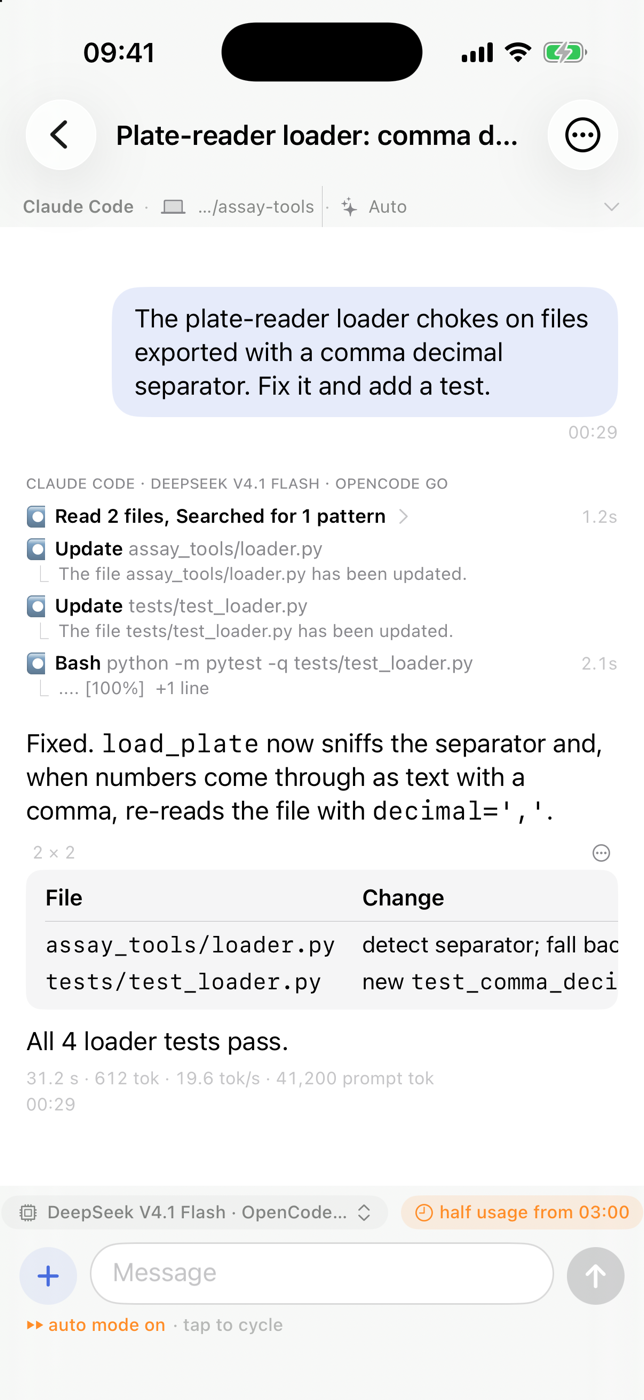
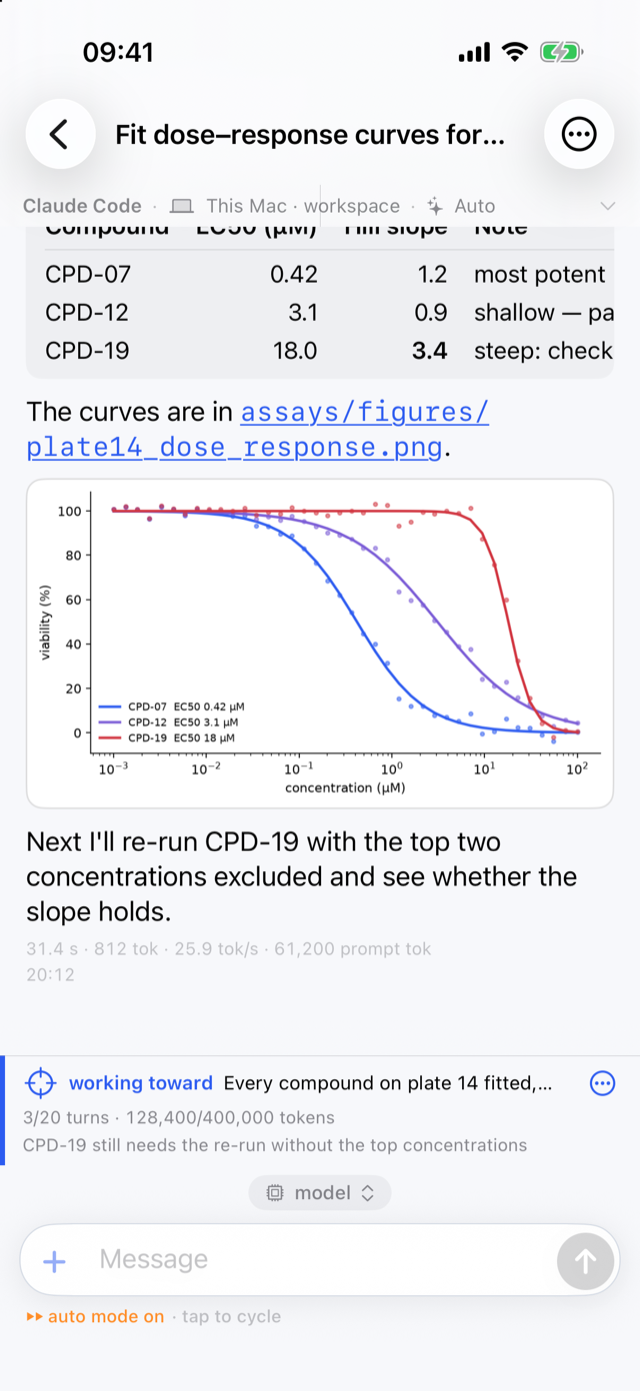
New screenshots and README; Markdown images show inline
- Screenshots retaken in the current look from a demo Orbit with made-up chats.
- README leads with chats that talk to each other, goals, Lock Screen approvals
  and the built-in guide.
- A Markdown image in an answer (`![plot](figures/x.png)`, relative to the chat's
  folder or a full path) now shows the picture instead of its alt text.

diff --git a/Orbit/Views/MessageBubble.swift b/Orbit/Views/MessageBubble.swift
@@ -209,7 +209,7 @@ struct MarkdownText: View {
             // only a finished answer is looked up — a live one changes 20 times a second
             guard let sid else { return }
             let names = blocks.flatMap(\.inlineTexts).flatMap { FileLinks.candidates(in: Self.attributed($0)) }
-            links.request(sid: sid, names: names)
+            links.request(sid: sid, names: names + blocks.compactMap(\.localImage))
         }
     }
 
@@ -254,6 +254,27 @@ struct MarkdownText: View {
             QuoteBlock(kind: kind, title: title.map { inline($0) }) {
                 MarkdownText(body)
             }
+        case .image(let alt, let src):
+            imageView(alt: alt, src: src)
+        }
+    }
+
+    /// A web picture loads as is; one on the Mac (`figures/plot.png`, relative to the
+    /// chat's folder, or a full path) once the Mac has said where it is -- the same
+    /// lookup that turns file names into links. Until then, or if it is not there, its name.
+    @ViewBuilder
+    private func imageView(alt: String, src: String) -> some View {
+        if src.hasPrefix("http://") || src.hasPrefix("https://"), let url = URL(string: src) {
+            AsyncImage(url: url) { img in
+                img.resizable().aspectRatio(contentMode: .fit)
+            } placeholder: { ProgressView().controlSize(.mini) }
+                .frame(maxWidth: .infinity, maxHeight: 240)
+                .clipShape(.rect(cornerRadius: 11))
+        } else if let sid, let f = links.info(sid: sid, name: src), f.exists, let url = f.url {
+            MessageImage(path: url)
+        } else {
+            Label(alt.isEmpty ? (src as NSString).lastPathComponent : alt, systemImage: "photo")
+                .font(.subheadline).foregroundStyle(.secondary)
         }
     }
 
@@ -308,6 +329,8 @@ struct MarkdownText: View {
         case list([ListItem])
         case quote(kind: String?, title: String?, body: String)
         case rule
+        /// `![alt](src)` on a line of its own: a picture, not its alt text
+        case image(alt: String, src: String)
 
         /// The inline Markdown pieces, for finding file names in them.
         var inlineTexts: [String] {
@@ -317,13 +340,21 @@ struct MarkdownText: View {
             case .list(let items): return items.map(\.text)
             case .quote(_, let title, let body):
                 return (title.map { [$0] } ?? []) + Block.parse(body).flatMap(\.inlineTexts)
-            case .code, .math, .rule: return []
+            case .code, .math, .rule, .image: return []
             }
+        }
+
+        /// A picture on the Mac this block shows, to look up like any file name.
+        var localImage: String? {
+            if case .image(_, let src) = self, !src.hasPrefix("http://"), !src.hasPrefix("https://"),
+               !src.hasPrefix("data:") { return src }
+            return nil
         }
 
         private static let headingRE = try! NSRegularExpression(pattern: #"^ {0,3}(#{1,6})\s+(.*?)\s*#*\s*$"#)
         private static let ruleRE = try! NSRegularExpression(pattern: #"^ {0,3}([-*_])(\s*\1){2,}\s*$"#)
         private static let itemRE = try! NSRegularExpression(pattern: #"^(\s*)([-*+]|\d{1,4}[.)])\s+(.*)$"#)
+        private static let imageRE = try! NSRegularExpression(pattern: #"^!\[([^\]]*)\]\(\s*<?([^)\s>]+)>?(?:\s+"[^"]*")?\s*\)$"#)
         private static let calloutRE = try! NSRegularExpression(pattern: #"^\[!(\w+)\][+-]?\s*(.*)$"#)
 
         private static func groups(_ re: NSRegularExpression, _ s: String) -> [String]? {
@@ -405,6 +436,12 @@ struct MarkdownText: View {
                     blocks.append(.table(rows: rows.map {
                         $0 + Array(repeating: "", count: width - $0.count) }))
                     i = j; continue
+                }
+
+                if let g = groups(imageRE, trimmed) {
+                    flushText()
+                    blocks.append(.image(alt: g[1], src: g[2].removingPercentEncoding ?? g[2]))
+                    i += 1; continue
                 }
 
                 if let g = groups(headingRE, line) {

diff --git a/Orbit/Views/Chat/AnswerExport.swift b/Orbit/Views/Chat/AnswerExport.swift
@@ -42,6 +42,7 @@ enum AnswerExport {
             return "<pre><code class=\"language-\(escape(lang))\">\(escape(code))</code></pre>"
         case .math(let tex): return "<pre class=\"math\">$$\(escape(tex))$$</pre>"
         case .rule: return "<hr>"
+        case .image(let alt, let src): return "<p><img src=\"\(escape(src))\" alt=\"\(escape(alt))\"></p>"
         case .table(let rows):
             guard let head = rows.first else { return "" }
             let th = head.map { "<th>\(inlineHTML($0))</th>" }.joined()

diff --git a/Orbit/Support/Models+Chat.swift b/Orbit/Support/Models+Chat.swift
@@ -164,6 +164,7 @@ extension Message {
             case .code(_, let code): return code
             case .math(let tex): return tex
             case .rule: return ""
+            case .image(let alt, let src): return alt.isEmpty ? src : alt + " (" + src + ")"
             case .table(let rows): return rows.map { $0.map(Self.strip).joined(separator: "\t") }.joined(separator: "\n")
             case .text(let s), .heading(_, let s): return Self.strip(s)
             case .list(let items):

diff --git a/README.md b/README.md
@@ -1,7 +1,29 @@
+<img src="assets/icon-512.png" width="80" align="right" alt="">
+
 # Orbit for iPhone
 
-The phone app for [Orbit](https://github.com/Micropeptide/Orbit), the research assistant that lives on your own Mac. Your chats, notes, papers and the model that answers all stay on the Mac; this app is a window onto them — live over Tailscale from anywhere, or over your local network at home.
+The phone app for [Orbit](https://github.com/Micropeptide/Orbit), your own AI workspace on
+your Mac. Orbit runs any model through the real Claude Code or Codex agent, lets chats hand
+work to each other, keeps going toward a goal, and queues or schedules messages. Your
+chats, files and the model that answers all stay on the Mac. This app is a live window onto
+them, over Tailscale from anywhere or over your local network at home.
 
+<p align="center">
+  <img src="docs/screenshots/welcome.png" width="180" alt="The welcome screen on first open">
+  <img src="docs/screenshots/chats.png" width="180" alt="The chat list, grouped by day">
+  <img src="docs/screenshots/chat.png" width="180" alt="A chat working toward a goal, with a table and a plot inline">
+  <img src="docs/screenshots/chats-talk.png" width="180" alt="A chat handing the test run to a cheaper chat and waiting for it">
+  <img src="docs/screenshots/scheduled.png" width="180" alt="Scheduled messages and tasks">
+</p>
+
+- **Chats that talk to each other, and goals.** Follow a chat as it hands work to a
+  cheaper one and waits for the answer. Messages from another chat are marked **from**
+  it, with a link to that chat. A chat with a goal shows its progress and lets you
+  pause, edit or clear the goal.
+- **Approvals from the Lock Screen.** Allow or Deny a step on the notification itself,
+  without opening the app.
+- **A guide built in.** The first time you open the app, it walks you through pairing.
+  The full user guide is under Settings.
 - **A home page on every new chat.** What needs you (an approval, a failed scheduled task, an account running low), what is running right now — stop it from there — what is scheduled next, two weeks of activity with your streak, and what is left of each account's 5-hour, weekly and monthly allowance. It keeps itself current while it is on screen.
 - **Your conversations, live.** The same chats as on the Mac, streaming as they are written, grouped by day, with Claude Code, Codex and OpenCode sessions in their own sections. Pin, archive, rename, bin, filter by project. Search titles *and* the text of every message, then jump straight to the line. Scroll up while an answer is being written and it leaves you where you are, with a "New messages" button to come back.
 - **Reads like Claude Code.** Tool calls as `⏺ Read`, `⏺ Bash` lines with a one-line result under them, runs of look-ups folded into "Read 3 files, Searched for 1 pattern", a live status line, collapsible reasoning, tables, code, math and diagrams. Approval prompts and questions from the model are answered from the phone.
@@ -10,14 +32,6 @@ The phone app for [Orbit](https://github.com/Micropeptide/Orbit), the research a
 - **Run the Mac from your pocket.** Pick the model per chat — the local MLX model, Claude Code or Codex on any provider, or a hosted API — with what is left of each account and the cheaper hours shown in the picker. Start, stop or switch the local model server. See and trigger the Mac's automatic backup. Restore from the bin.
 - **Works when the Mac is asleep.** Recent conversations are cached for reading offline; a banner says so rather than pretending. An answer that finishes while you are elsewhere notifies you, and the notification opens that chat.
 - **Private by construction.** Pairing is a QR code carrying a token that lands in the Keychain; every request is gated by it. Over Tailscale the connection is HTTPS through Tailscale Serve with a real certificate. Optional Face ID lock. Nothing goes to a cloud unless you configured a hosted model yourself.
-
-<p align="center">
-  <img src="docs/screenshots/home.png" width="190" alt="A new chat's home page: running now, coming up, activity">
-  <img src="docs/screenshots/chats.png" width="190" alt="Chat list">
-  <img src="docs/screenshots/chat.png" width="190" alt="A Claude Code chat with tool calls and a table">
-  <img src="docs/screenshots/plot.png" width="190" alt="A plot inline">
-  <img src="docs/screenshots/settings.png" width="190" alt="Settings: local model server and harness">
-</p>
 
 ## Getting it onto your phone
 
